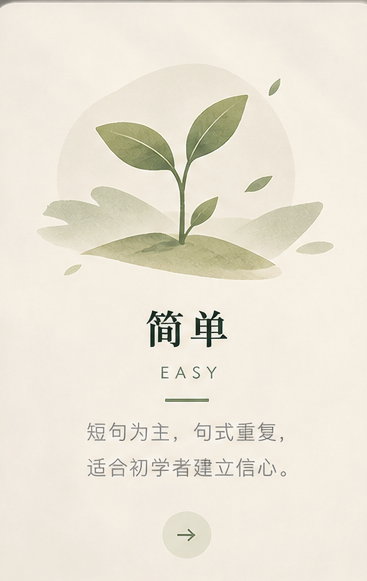
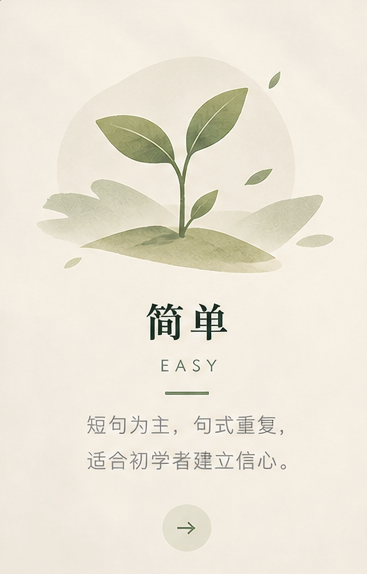
style: 调整首页、单词页与设置页的间距、配色和难度卡布局
修改：
- `src/views/Home/index.vue` — 入口卡片组与 Hero 横幅的下间距由 `--space-3`（12px）改为 `--space-8`（32px），不再紧贴实景图下缘；移动端删掉与桌面重复的 `margin-top`
- `src/views/Words/component/WordFormPanel.vue` — 表单卡底色改为 `#ede8df`，边框由 `--color-line` 升级为 `--color-line-strong`，避免卡片轮廓糊进更深的底色；插画透明度降到 0.6，文字压图更清晰
- `src/views/Settings/index.vue` — 新增页面级 `--settings-gutter`（`--content-pad-x` + 40px）统一两端留白；两列由 7.5 : 2.5 改为 7 : 3，难度卡行右移 40px、插画左缘左移 60px；收紧表单区间距（24/20/32/48），整页由 1004px 压到 936px，一屏可看完
- `src/views/Settings/component/DifficultyPicker.vue` — 难度卡整行限宽 700px，三列按素材宽高比 639 : 636 : 645 分割，缩放后三卡等高；简单卡尺寸更新为 367×574
- `src/views/Settings/component/SettingsAside.vue` — 右侧留白改用 `--settings-gutter`，与左栏左侧留白同宽（桌面 88px）；插画由 `contain` 改为 `cover`，撑满整列高度
- `src/assets/images/difficulty-easy.png` — 替换为新版“简单”难度素材（367×574）
- `md/前端页面设计方案.md` — 同步首页卡片间距、单词页表单卡配色、设置页两列比例/两端留白/插画裁切方式、难度卡分列规则；§12 追加第 18–23 条决策记录

验证：
- `npm run build` 通过（556ms）
- `npx vitest run` 通过：20 个测试文件、122 个用例
- `npx prettier --check` 通过（本次改动的 5 个源文件）
- CDP 实测 1440×1000：整页 936px、难度卡 320–1020、插画 1078–1352、两端留白 88px、中间空隙 58px

diff --git a/src/views/Settings/index.vue b/src/views/Settings/index.vue
@@ -152,22 +152,27 @@ async function handleGenerate() {
   animation: settings-rise var(--dur-page) var(--ease-out) both;
 }
 
-/* 左表单列 + 右满高装饰列；装饰列贴住内容区右边缘，见 meta.flush */
+/* 左表单列 + 右满高装饰列；装饰列右侧留白，见 meta.flush */
 .settings-page {
+  /* 页面两端统一的留白基准：左表单列和右装饰列都从这里起步，见 SettingsAside */
+  --settings-gutter: calc(var(--content-pad-x) + var(--space-10));
+
   display: grid;
-  grid-template-columns: minmax(0, 1fr) clamp(280px, 23vw, 360px);
+  /* 左表单 : 右插画 = 7 : 3；插画列多分一成，整幅插画随之左移 */
+  grid-template-columns: minmax(0, 7fr) minmax(0, 3fr);
   min-height: calc(100dvh - var(--topbar-height));
 }
 
 .settings-main {
   width: 100%;
-  max-width: calc(720px + var(--content-pad-x) + var(--space-10));
-  padding: var(--content-pad-y) var(--space-10) var(--space-16) var(--content-pad-x);
+  /* 上限 1200px 指的是正文宽度，左右内边距要另加，比例在 1920 这类宽屏下仍成立 */
+  max-width: calc(1200px + var(--settings-gutter) + var(--space-10));
+  padding: var(--content-pad-y) var(--space-10) var(--space-12) var(--settings-gutter);
 }
 
 .settings-form {
   min-width: 0;
-  margin-top: var(--space-8);
+  margin-top: var(--space-6);
   animation: settings-rise var(--dur-page) var(--ease-out) 60ms both;
 }
 
@@ -179,8 +184,8 @@ async function handleGenerate() {
 }
 
 .params {
-  margin-top: var(--space-8);
-  padding-top: var(--space-6);
+  margin-top: var(--space-6);
+  padding-top: var(--space-5);
   border-top: 1px solid var(--color-line);
 }
 
@@ -204,8 +209,8 @@ async function handleGenerate() {
 .actions {
   display: flex;
   gap: var(--space-3);
-  margin-top: var(--space-10);
-  padding-top: var(--space-6);
+  margin-top: var(--space-8);
+  padding-top: var(--space-5);
   border-top: 1px dashed var(--color-line-strong);
 }
 
@@ -232,7 +237,7 @@ async function handleGenerate() {
   }
 
   .settings-main {
-    max-width: calc(720px + var(--content-pad-x) * 2);
+    max-width: none;
   }
 
   .settings-aside {

diff --git a/src/views/Settings/component/DifficultyPicker.vue b/src/views/Settings/component/DifficultyPicker.vue
@@ -23,7 +23,7 @@ const options = [
     value: 'easy',
     image: easyImage,
     width: 367,
-    height: 581,
+    height: 574,
     label: '简单：短句为主，句式重复，适合初学者建立信心',
   },
   {
@@ -136,8 +136,14 @@ function handleKeydown(event) {
 
 .cards {
   display: grid;
-  grid-template-columns: repeat(3, minmax(0, 1fr));
+  /*
+   * 按三张原图的宽高比分列宽：0.639 / 0.636 / 0.645（367×574、364×572、375×581），
+   * 缩放后三卡高度齐平，宽度也随之保持原有比例
+   */
+  grid-template-columns: minmax(0, 639fr) minmax(0, 636fr) minmax(0, 645fr);
   gap: var(--space-4);
+  /* 宽屏时不再跟着左栏无限放大，整行收到 700px，页面高度随之变矮 */
+  max-width: 700px;
   margin-top: var(--space-4);
 }
 

diff --git a/src/views/Home/index.vue b/src/views/Home/index.vue
@@ -125,8 +125,8 @@ function tryAnyway() {
   gap: var(--space-5);
   width: 100%;
   max-width: var(--content-max-wide);
-  /* 设计稿里三张卡紧贴横幅下缘，只留一道窄缝；超宽屏时整组居中 */
-  margin: var(--space-3) auto 0;
+  /* 横幅下缘是整幅实景图，卡片组留一段呼吸空间再起；超宽屏时整组居中 */
+  margin: var(--space-8) auto 0;
   padding: 0 var(--content-pad-x) var(--space-16);
 }
 
@@ -139,7 +139,6 @@ function tryAnyway() {
 @media (max-width: 767px) {
   .entries {
     grid-template-columns: 1fr;
-    margin-top: var(--space-8);
     padding-bottom: var(--space-10);
   }
 }

diff --git a/src/views/Settings/component/SettingsAside.vue b/src/views/Settings/component/SettingsAside.vue
@@ -15,9 +15,12 @@
 <style scoped>
 .settings-aside {
   /* 网格项默认拉伸，配合页面的 min-height 铺满整列 */
-  background-color: var(--color-bg-deep);
   background-image: url('../../../assets/images/settings-mountain.jpg');
   background-position: center;
+  background-repeat: no-repeat;
+  /* cover 让插画撑满整列高度，窄列下横向裁掉两侧，上下不留空带 */
   background-size: cover;
+  /* 不贴窗口右缘，与左表单列的留白取同一套宽度（--settings-gutter 由设置页定义） */
+  margin-right: var(--settings-gutter, var(--content-pad-x));
 }
 </style>

diff --git a/src/views/Words/component/WordFormPanel.vue b/src/views/Words/component/WordFormPanel.vue
@@ -161,9 +161,10 @@ defineExpose({ focusWord })
   flex-direction: column;
   gap: var(--space-4);
   padding: var(--space-6);
-  border: 1px solid var(--color-line);
+  /* 底色比页面底色更深，边框要跟着加一档，否则卡片轮廓会糊进背景 */
+  border: 1px solid var(--color-line-strong);
   border-radius: var(--radius-xl);
-  background: var(--color-surface);
+  background-color: #ede8df;
 }
 
 .word-form.is-compact {
@@ -236,6 +237,7 @@ defineExpose({ focusWord })
 }
 
 .form-art img {
+  opacity: 0.6;
   display: block;
   width: 100%;
   height: auto;
